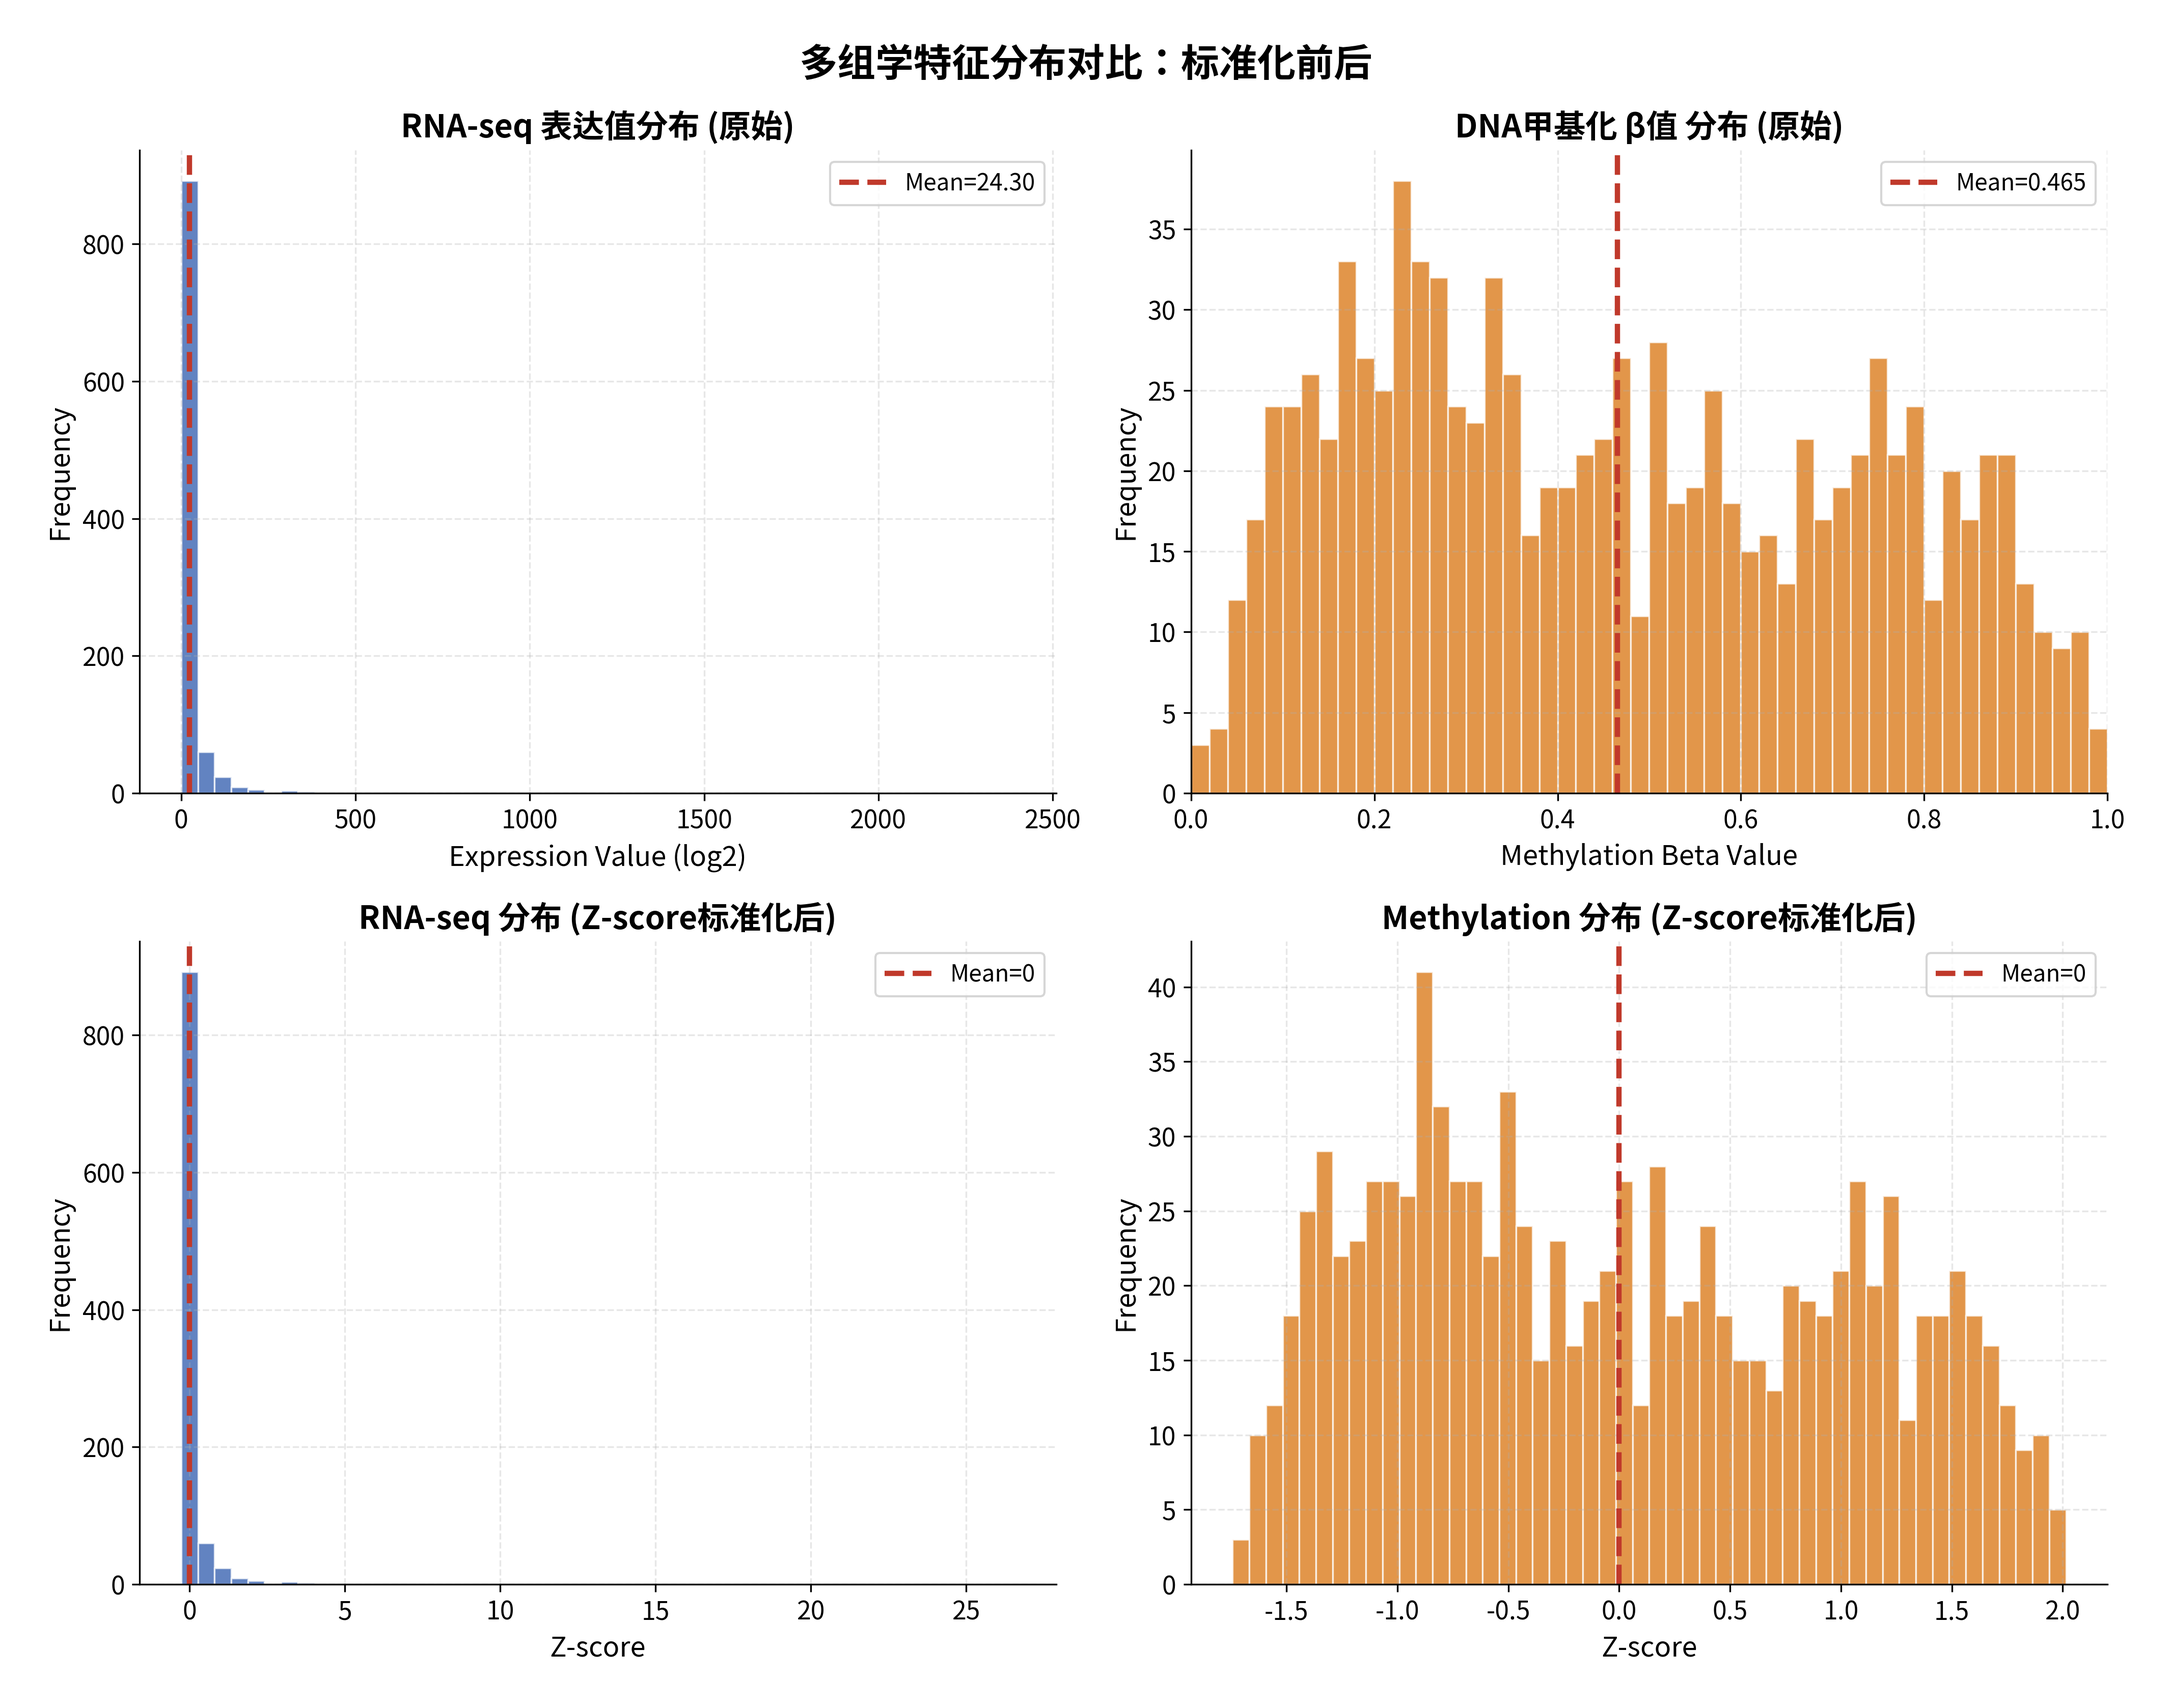
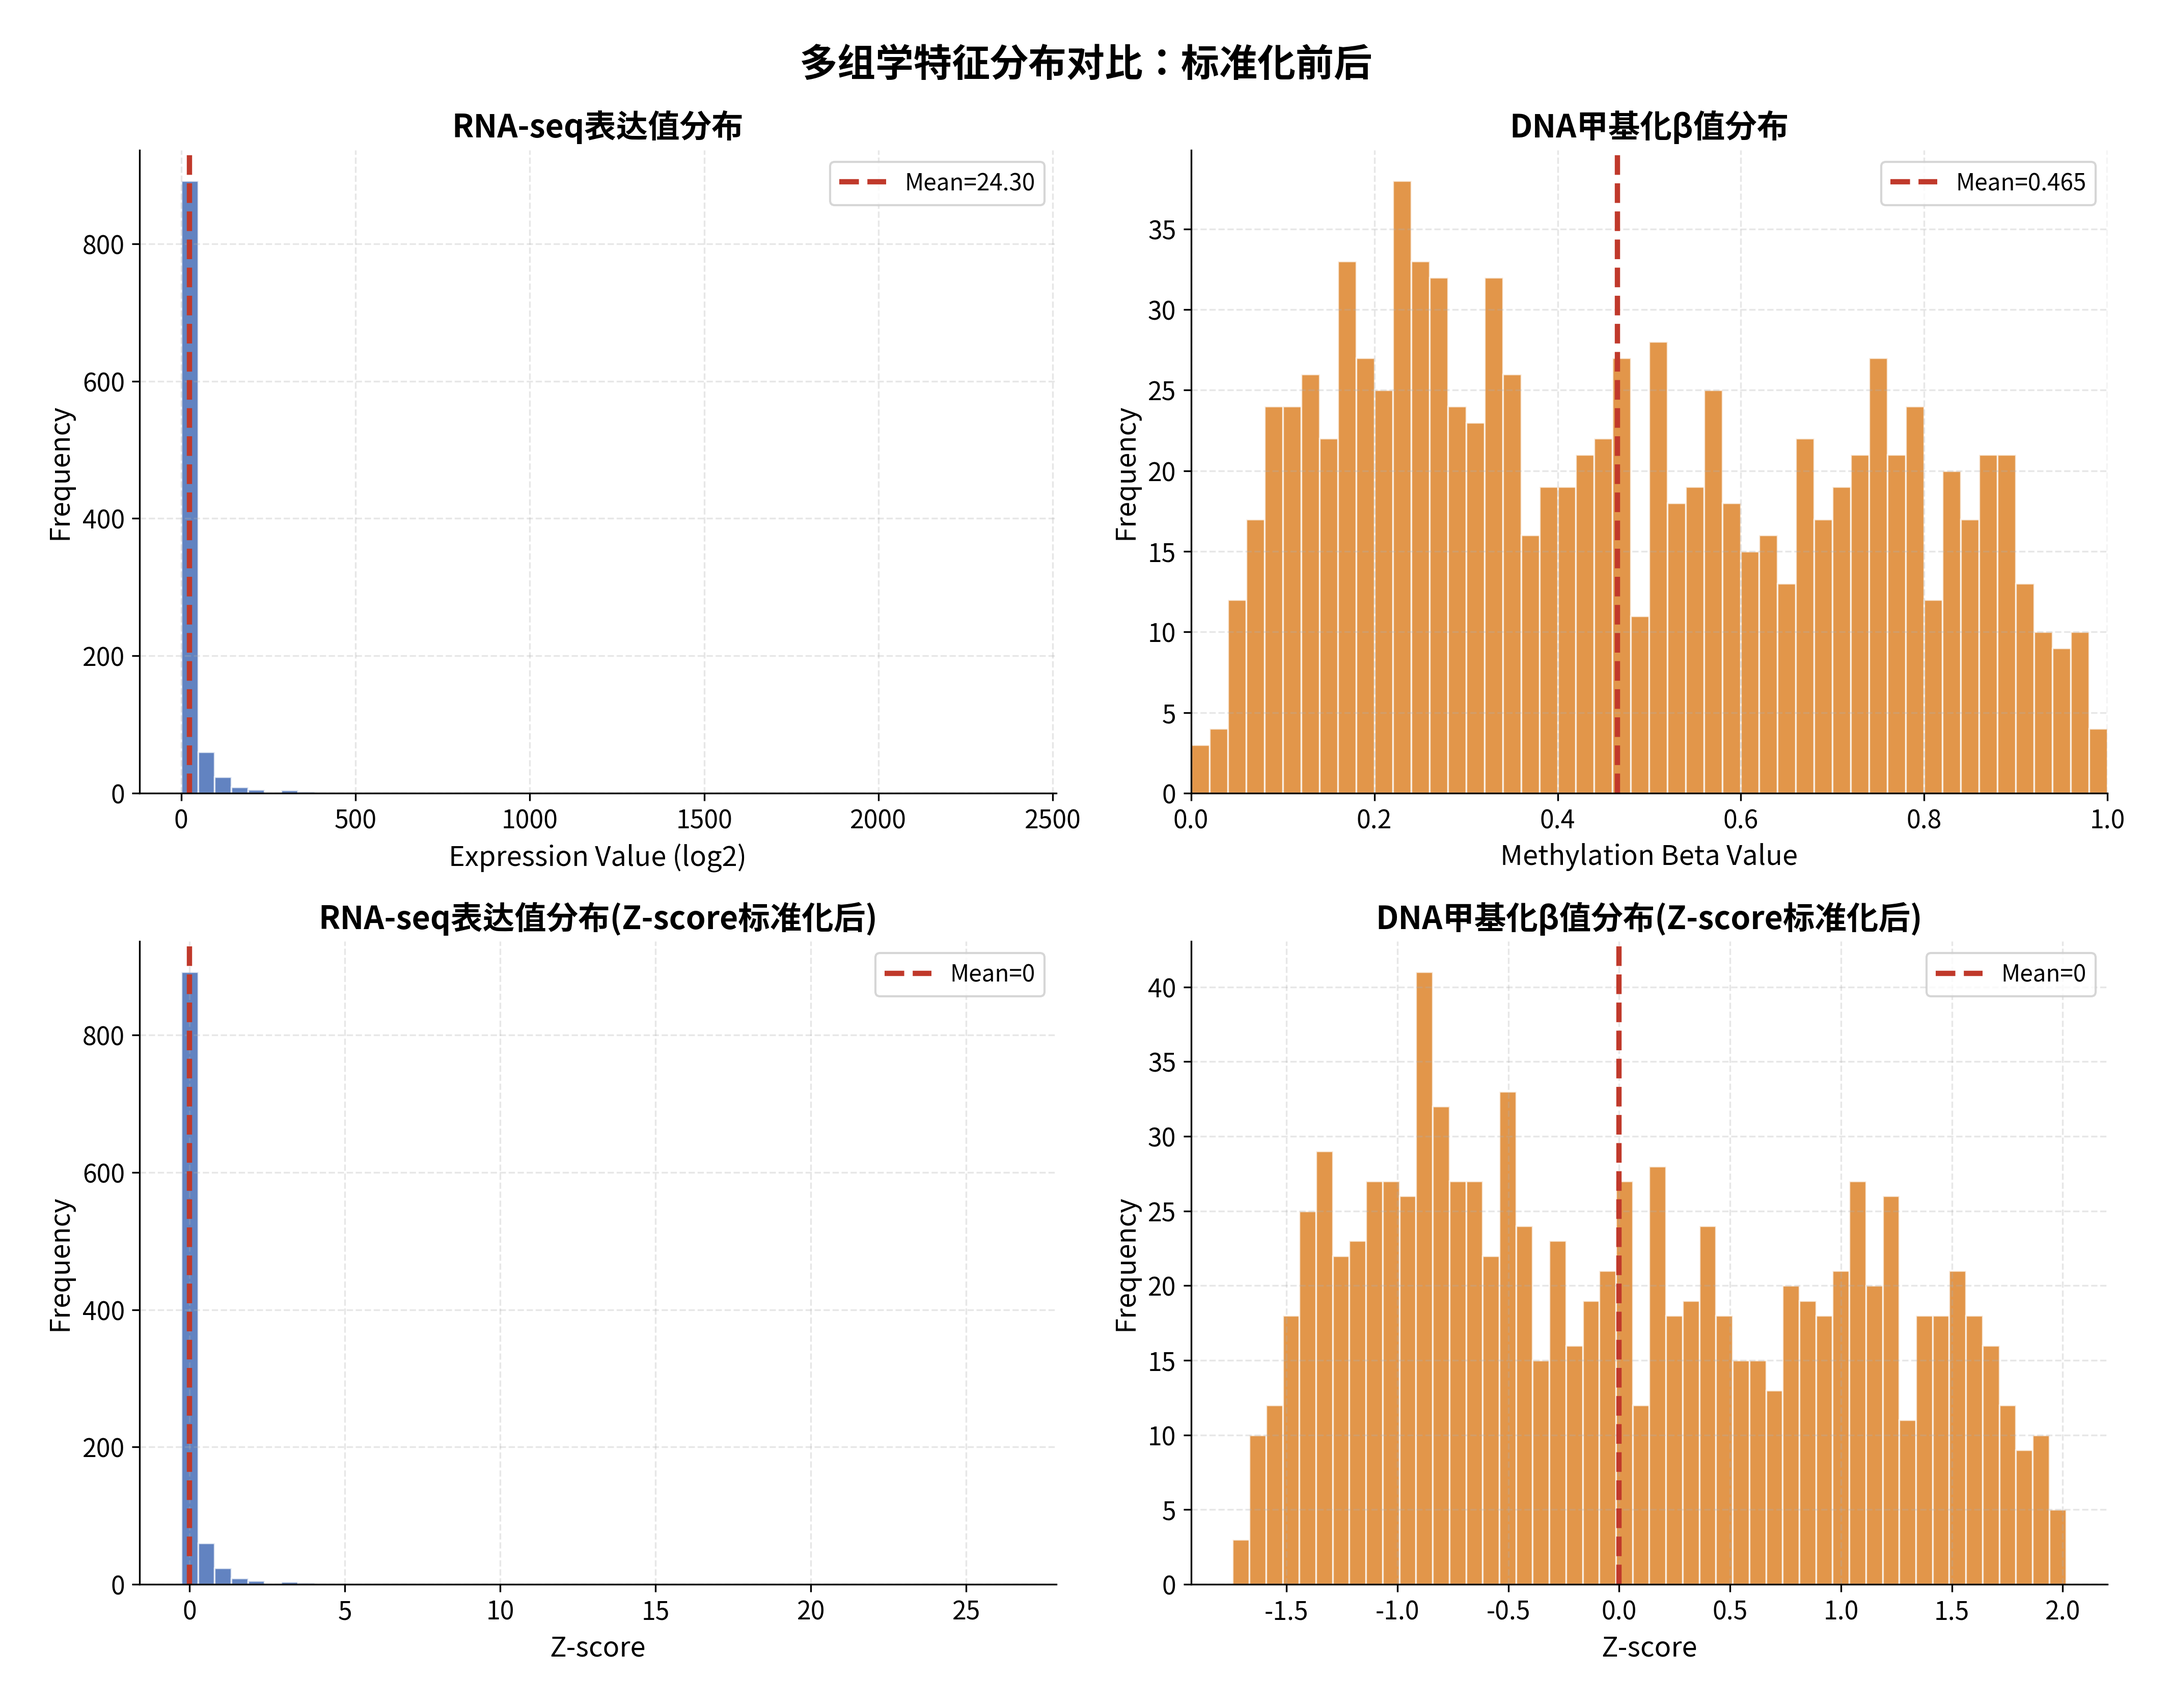
style(chapter2): 优化图表标题和样式
调整图表标题格式，统一使用中文括号
更新图表中的字体大小和箭头位置
重构对齐流程说明文本的格式

diff --git a/scripts/chapter2/generate_figures.py b/scripts/chapter2/generate_figures.py
@@ -177,7 +177,7 @@ def generate_fig3_feature_distribution():
     ax1 = axes[0, 0]
     ax1.hist(rna_raw, bins=50, color='#2E5AAC', alpha=0.75, edgecolor='white', linewidth=0.8)
     ax1.axvline(np.mean(rna_raw), color='#C0392B', linestyle='--', linewidth=2.5, label=f'Mean={np.mean(rna_raw):.2f}')
-    ax1.set_title('RNA-seq 表达值分布 (原始)', fontsize=15, fontweight='bold')
+    ax1.set_title('RNA-seq表达值分布', fontsize=15, fontweight='bold')
     ax1.set_xlabel('Expression Value (log2)', fontsize=13)
     ax1.set_ylabel('Frequency', fontsize=13)
     ax1.legend(fontsize=11)
@@ -189,7 +189,7 @@ def generate_fig3_feature_distribution():
     ax2 = axes[0, 1]
     ax2.hist(meth_raw, bins=50, color='#D9730D', alpha=0.75, edgecolor='white', linewidth=0.8, range=[0, 1])
     ax2.axvline(np.mean(meth_raw), color='#C0392B', linestyle='--', linewidth=2.5, label=f'Mean={np.mean(meth_raw):.3f}')
-    ax2.set_title('DNA甲基化 β值 分布 (原始)', fontsize=15, fontweight='bold')
+    ax2.set_title('DNA甲基化β值分布', fontsize=15, fontweight='bold')
     ax2.set_xlabel('Methylation Beta Value', fontsize=13)
     ax2.set_ylabel('Frequency', fontsize=13)
     ax2.legend(fontsize=11)
@@ -202,7 +202,7 @@ def generate_fig3_feature_distribution():
     ax3 = axes[1, 0]
     ax3.hist(rna_norm, bins=50, color='#2E5AAC', alpha=0.75, edgecolor='white', linewidth=0.8)
     ax3.axvline(0, color='#C0392B', linestyle='--', linewidth=2.5, label='Mean=0')
-    ax3.set_title('RNA-seq 分布 (Z-score标准化后)', fontsize=15, fontweight='bold')
+    ax3.set_title('RNA-seq表达值分布(Z-score标准化后)', fontsize=15, fontweight='bold')
     ax3.set_xlabel('Z-score', fontsize=13)
     ax3.set_ylabel('Frequency', fontsize=13)
     ax3.legend(fontsize=11)
@@ -214,7 +214,7 @@ def generate_fig3_feature_distribution():
     ax4 = axes[1, 1]
     ax4.hist(meth_norm, bins=50, color='#D9730D', alpha=0.75, edgecolor='white', linewidth=0.8)
     ax4.axvline(0, color='#C0392B', linestyle='--', linewidth=2.5, label='Mean=0')
-    ax4.set_title('Methylation 分布 (Z-score标准化后)', fontsize=15, fontweight='bold')
+    ax4.set_title('DNA甲基化β值分布(Z-score标准化后)', fontsize=15, fontweight='bold')
     ax4.set_xlabel('Z-score', fontsize=13)
     ax4.set_ylabel('Frequency', fontsize=13)
     ax4.legend(fontsize=11)
@@ -249,35 +249,36 @@ def generate_fig4_sample_alignment():
         ellipse = mpatches.Ellipse((x, y), w, h, facecolor=color, edgecolor='black', linewidth=2.5, alpha=0.7)
         ax.add_patch(ellipse)
         ax.text(x, y, f'{label}\n(n={n_samples})', ha='center', va='center',
-                fontsize=13, fontweight='bold')
+                fontsize=15, fontweight='bold')
 
     draw_ellipse(2.5, 6, 3, 2.2, 'RNA-seq', '~1100', '#2E5AAC')
     draw_ellipse(6.5, 6, 3, 2.2, 'Methylation', '~900', '#D9730D')
     draw_ellipse(10.5, 6, 3, 2.2, 'PAM50', '~1000', '#4A9B4A')
 
-    ax.annotate('', xy=(6.5, 4.2), xytext=(2.5, 5.0), arrowprops=dict(arrowstyle='->', lw=2.5, color='#333'))
-    ax.annotate('', xy=(6.5, 4.2), xytext=(6.5, 5.0), arrowprops=dict(arrowstyle='->', lw=2.5, color='#333'))
-    ax.annotate('', xy=(6.5, 4.2), xytext=(10.5, 5.0), arrowprops=dict(arrowstyle='->', lw=2.5, color='#333'))
+    ax.annotate('', xy=(6.5, 4.4), xytext=(2.5, 5.0), arrowprops=dict(arrowstyle='->', lw=2.5, color='#333'))
+    ax.annotate('', xy=(6.5, 3.9), xytext=(6.5, 5.0), arrowprops=dict(arrowstyle='->', lw=2.5, color='#333'))
+    ax.annotate('', xy=(6.5, 4.4), xytext=(10.5, 5.0), arrowprops=dict(arrowstyle='->', lw=2.5, color='#333'))
+    
 
-    ax.text(6.5, 4.5, '取交集 ∩', ha='center', fontsize=12, fontweight='bold',
+    ax.text(6.5, 4.4, '∩', ha='center', fontsize=25, fontweight='bold',
             bbox=dict(boxstyle='round,pad=0.3', facecolor='#FFF8DC', edgecolor='#DAA520', linewidth=2))
 
     draw_ellipse(6.5, 3, 3.5, 2, '对齐后\n共同样本', '~150', '#7BAFD4')
 
-    ax.annotate('', xy=(6.5, 1.8), xytext=(6.5, 2.2), arrowprops=dict(arrowstyle='->', lw=2.5, color='#C0392B'))
-    ax.text(9, 2.0, '剔除HER2+\n(n<2)', ha='left', fontsize=11, color='#C0392B', fontweight='bold')
+    ax.annotate('', xy=(6.5, 1.5), xytext=(6.5, 2.3), arrowprops=dict(arrowstyle='->', lw=2.5, color='#333'))
+    ax.text(10, 2.9, '剔除HER2+\n(n<2)', ha='center', fontsize=25, color='#C0392B', fontweight='bold')
 
     draw_ellipse(6.5, 0.9, 3.5, 1.4, '有效样本集\n(建模用)', '142', '#4A9B4A')
 
     info_text = (
-        "对齐规则:\n"
-        "• 三模态样本交集\n"
-        "• 移除缺失样本\n"
-        "• 剔除稀有类别\n"
-        "• 最终: 142样本"
+        "对齐流程:\n"
+        "   三模态样本交集\n"
+        "   移除缺失样本\n"
+        "   剔除稀有类别\n"
+        "   最终: 142样本"
     )
     props = dict(boxstyle='round,pad=0.4', facecolor='#F5F5F5', edgecolor='#999', linewidth=1.5, alpha=0.95)
-    ax.text(0.3, 3.5, info_text, fontsize=11, va='top', bbox=props, fontweight='bold')
+    ax.text(0.3, 3.5, info_text, fontsize=25, va='top', bbox=props, fontweight='bold')
 
     plt.tight_layout()
     output_path = OUTPUT_DIR / 'fig4_sample_alignment.png'
